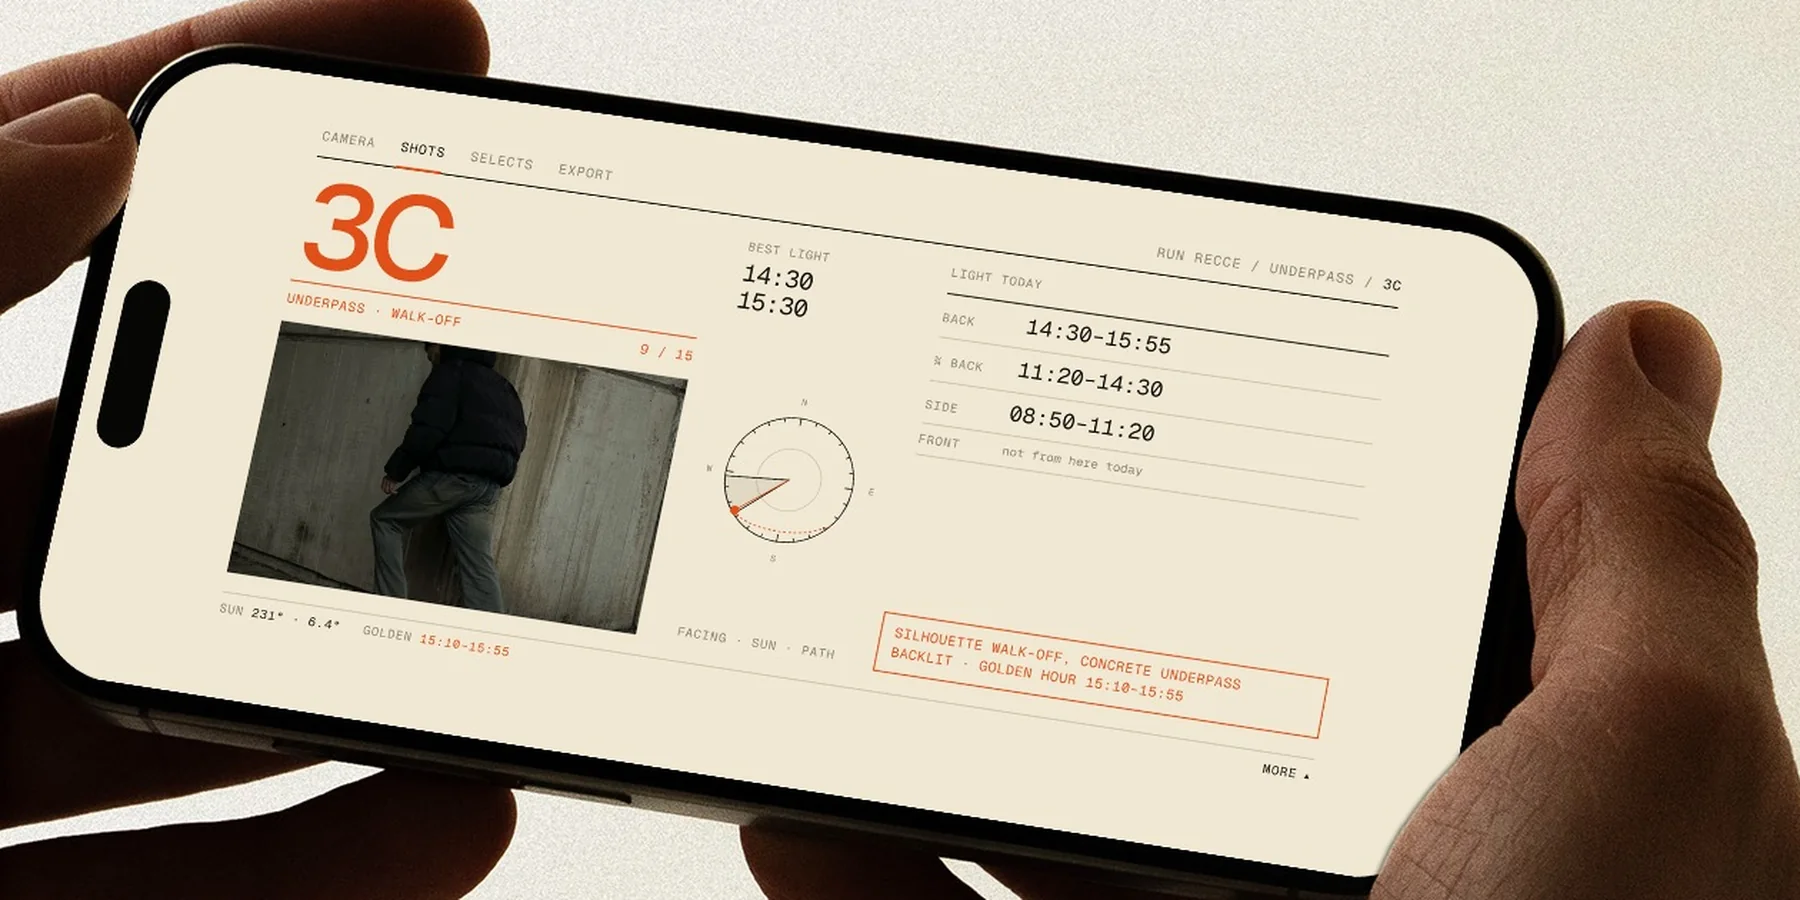
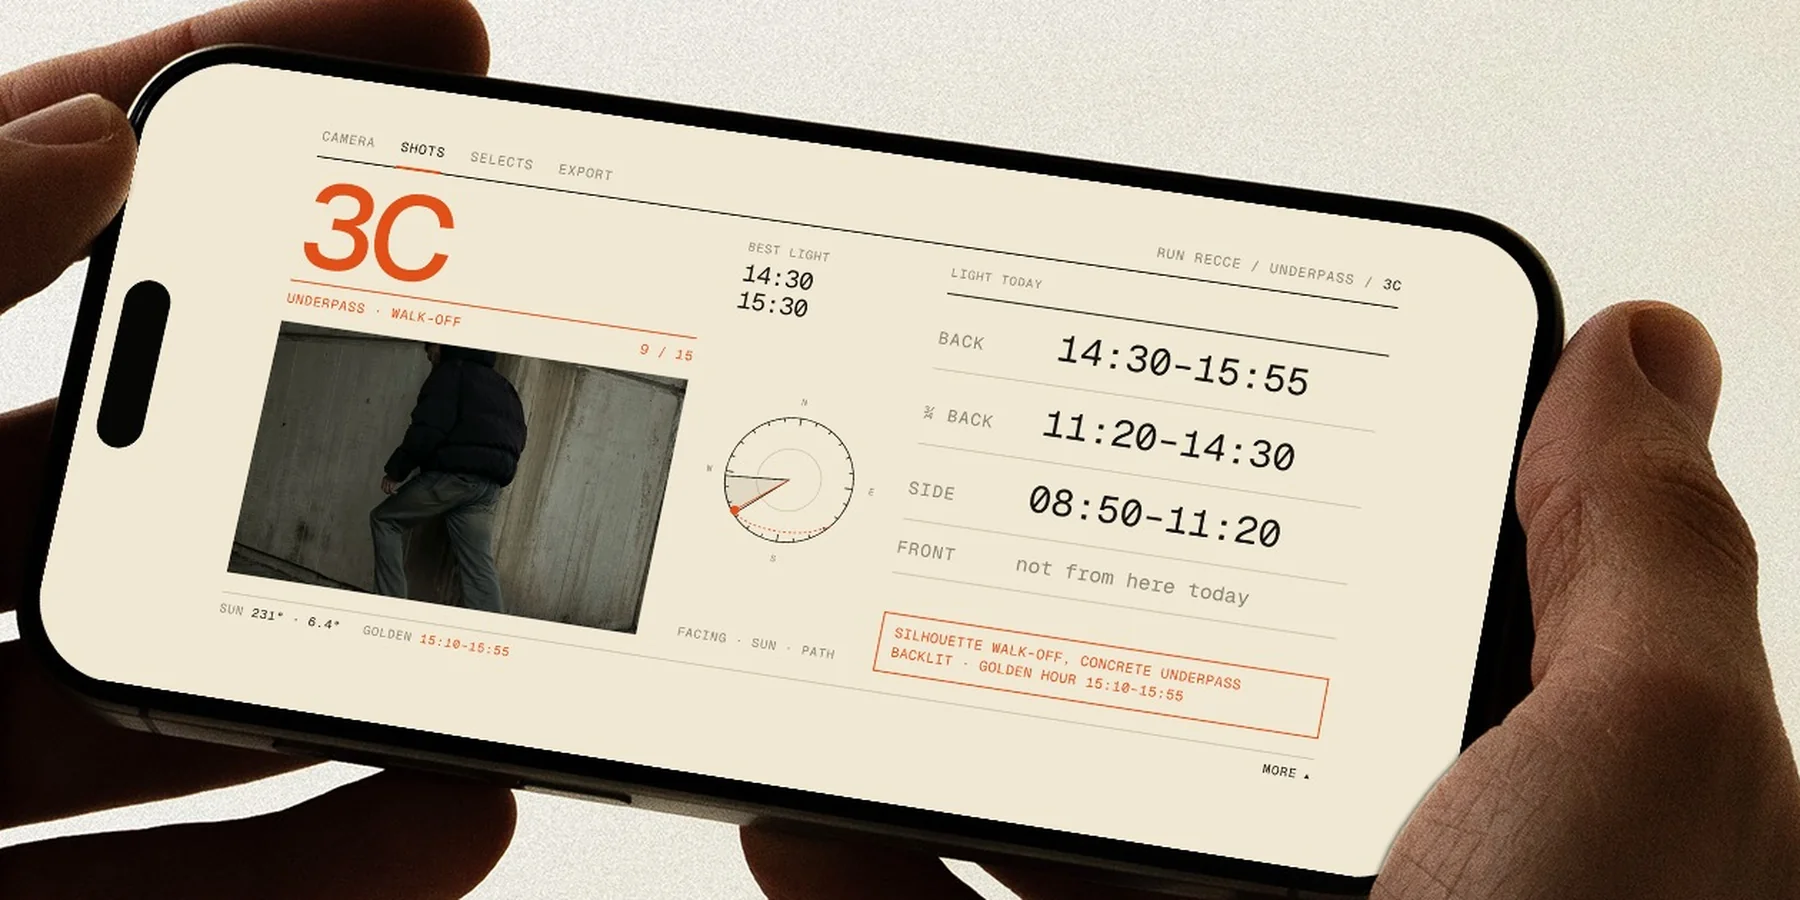
O&S preview: readable light times, fix PDF black box (#287)
Claude-Session: https://claude.ai/code/session_01WU34tcMVhkrTaHNpy6ux3Z

diff --git a/preview/out-and-scout-12/index.html b/preview/out-and-scout-12/index.html
@@ -56,7 +56,7 @@ h1,h2,h3{font-family:var(--num);font-weight:600;margin:0;text-wrap:balance}
 .open .stage0{margin:clamp(48px,8vh,84px) auto 0;width:min(100%,1040px)}
 .open .stage0{width:min(100%,1240px)}
 .shot{transform:scale(var(--s,.9));transform-origin:50% 20%;will-change:transform}
-.shot img,.band img{width:100%;height:auto;border-radius:clamp(18px,2.4vw,32px)}
+.shot img{width:100%;height:auto;border-radius:clamp(18px,2.4vw,32px)}
 .open .note{margin-top:22px}
 
 /* the iPhone, drawn: a landscape phone with a thin metal edge and the island on the left */
@@ -100,14 +100,11 @@ h1,h2,h3{font-family:var(--num);font-weight:600;margin:0;text-wrap:balance}
 .lhead{max-width:820px;margin:0 0 clamp(30px,5vh,52px)}.lhead h2{font-size:clamp(36px,5vw,68px);line-height:1.02;letter-spacing:-.05em;margin-top:14px}.lhead p{margin-top:20px;max-width:46ch;font-size:clamp(17px,1.5vw,20px);color:#55534d}
 .bt img{display:block;width:100%;height:auto;border-radius:clamp(18px,2.4vw,32px)}
 
-.band{background:#0e0e0e;color:#F1EEE7;margin-top:clamp(90px,15vh,170px);padding:clamp(70px,11vh,130px) 22px}
-.band .lab{color:#8A877F}
 .split{display:grid;grid-template-columns:minmax(0,1fr) minmax(0,1fr);gap:clamp(36px,6vw,96px);align-items:center}
 .split.rev{grid-template-columns:minmax(0,1fr) minmax(0,1fr)}.split.rev .sx{order:2}.split.rev .sp{order:1}
 .split h2{font-size:clamp(36px,5vw,68px);line-height:1.02;letter-spacing:-.05em;margin-top:14px}
 .sp.card img{display:block;width:100%;height:auto;border-radius:clamp(18px,2.4vw,32px)}
-.split p{margin-top:20px;max-width:34ch;font-size:clamp(17px,1.5vw,20px);color:#55534d}.band .split p{color:#b9b5ac}
-.band .sp img{display:block;width:100%;border-radius:22px;-webkit-mask:linear-gradient(90deg,transparent 0,#000 16%,#000 94%,transparent);mask:linear-gradient(90deg,transparent 0,#000 16%,#000 94%,transparent)}
+.split p{margin-top:20px;max-width:34ch;font-size:clamp(17px,1.5vw,20px);color:#55534d}
 .pair.one{grid-template-columns:minmax(0,330px)}
 @media (max-width:820px){.split,.split.rev{grid-template-columns:1fr;text-align:left}.split.rev .sx{order:1}.split.rev .sp{order:2}.band .sp img{max-width:460px;margin:0 auto}.pair.one{grid-template-columns:minmax(0,280px)}}
 
@@ -370,12 +367,12 @@ document.documentElement.classList.add("js");
 var S=[
  {k:"Captions & scenes",vid:"vf",img:"os11-shots",h:"Captions & scenes, done for you.",p:"Auto captions & scene change detection, so the app keeps up as you walk round a recce."},
  {k:"Blur faces",vid:"blur",img:"os11-viewer-blur",h:"Blur faces.",p:"We realise not everyone wants to show their face in recce images, so we added a feature to blur them."},
- {k:"Best light",vid:"card",img:"os11-shot-card",h:"A suggestion for the best light.",p:"Picked the way working cinematographers would. We love the backlight."},
+ {k:"Best light",vid:"",img:"os11-best-story",h:"A suggestion for the best light.",p:"Picked the way working cinematographers would. We love the backlight. Plus when each shot is back, ¾ back, side & front lit."},
  {k:"Send photos",vid:"sel",img:"os11-selects",h:"Just send the photos.",p:"You can now easily send photos like you're used to."}
 ];
 document.getElementById("txt").innerHTML=S.map(function(s,i){return '<div class="t'+(i?'':' on')+'"><span class="lab"><span class="o">0'+(i+1)+'</span> · '+s.k+'</span><h2>'+s.h+'</h2><p>'+s.p+'</p></div>';}).join("")+
   '<div class="bar" aria-hidden="true" style="grid-area:2/1">'+S.map(function(){return '<i><b></b></i>';}).join("")+'</div>';
-document.getElementById("scr").innerHTML=S.map(function(s,i){return '<div class="ly'+(i?'':' on')+'"><img src="'+SRC(s.img)+'" alt="Out &amp; Scout: '+s.k+'"'+(i?' loading="lazy"':'')+'><video muted playsinline preload="none" aria-hidden="true" data-src="'+VSRC(s.vid)+'"></video></div>';}).join("");
+document.getElementById("scr").innerHTML=S.map(function(s,i){return '<div class="ly'+(i?'':' on')+'"><img src="'+SRC(s.img)+'" alt="Out &amp; Scout: '+s.k+'"'+(i?' loading="lazy"':'')+'>'+(s.vid?'<video muted playsinline preload="none" aria-hidden="true" data-src="'+VSRC(s.vid)+'"></video>':'')+'</div>';}).join("");
 document.getElementById("doc").innerHTML=DOC();
 
 function DOC(){
